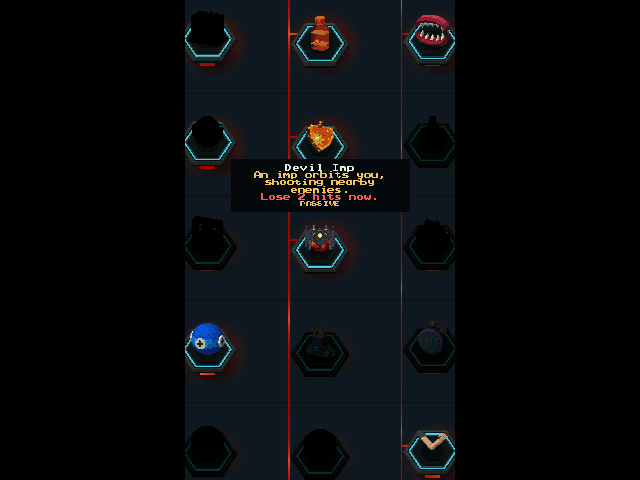
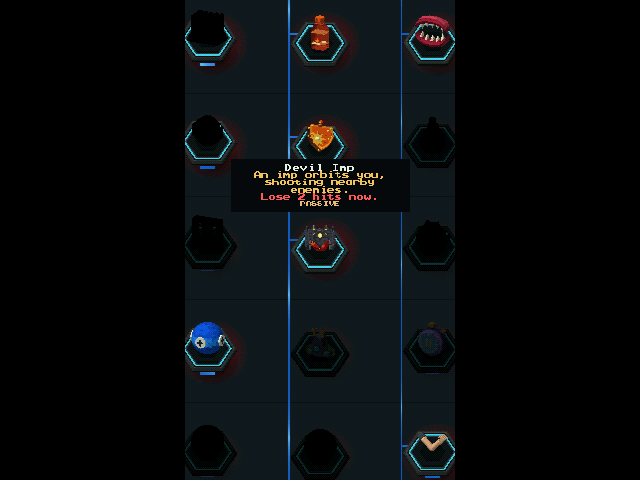
Light gallery routes and directory matches in blue

diff --git a/Assets/Scripts/Run/HangarGallery.cs b/Assets/Scripts/Run/HangarGallery.cs
@@ -73,7 +73,7 @@ public sealed partial class HangarHub
             // A fixed pool of red light and an offset contact shadow beneath the levitating base.
             GalleryWell(floor, colors, indices, at + new Vector2(.17f, -.35f), 1.39f, new Color(.48f, .065f, .045f), GalleryDeck);
             GalleryWell(floor, colors, indices, at + new Vector2(.23f, -.76f), .93f, new Color(.012f, .016f, .021f, .86f), Color.clear);
-            Bar(at + Vector2.down * 1.12f, new Vector2(.47f, .055f), new Color(1, .32f, .2f));
+            Bar(at + Vector2.down * 1.12f, new Vector2(.47f, .055f), GalleryLampMatrix.RouteBlue);
         }
         caseVertices[exhibits.Length] = colors.Count;
         floorLights = GallerySurface("Gallery floor and footlights", floor, colors, indices, -14);
@@ -81,7 +81,7 @@ public sealed partial class HangarHub
         litFloorColors = colors.ToArray();
         guidePaint = new Material(Resources.Load<Shader>("GalleryGuide"));
         guidePaint.SetVector("_Origin", new Vector4(FilterDesk.x, FilterDesk.y, 0, 0));
-        guideMesh = GallerySurface("Red inlaid guide lamps", new List<Vector3>(), new List<Color>(), new List<int>(), -10);
+        guideMesh = GallerySurface("Blue inlaid guide lamps", new List<Vector3>(), new List<Color>(), new List<int>(), -10);
         BuildControlDesk((int)Dock.Armory);
         MountReceiver((int)Dock.Armory);
         HangingSign("CASES >", FilterDesk + new Vector2(2.6f, -2.5f), DockInstrument.Brass, true);
@@ -249,7 +249,7 @@ public sealed partial class HangarHub
         var v = new List<Vector3>();
         var c = new List<Color>();
         var t = new List<int>();
-        var red = new Color(1, .14f, .085f);
+        var blue = GalleryLampMatrix.RouteBlue;
         int count = 0;
         for (int column = 0; column < GalleryShelf.Columns; column++)
         {
@@ -266,14 +266,14 @@ public sealed partial class HangarHub
                 if (band == 0 && galleryAvailability == 0)
                     continue;
                 highest = at.y;
-                GalleryQuad(v, c, t, at + Vector2.left * .94f, new Vector2(.45f, .055f), red);
-                GalleryQuad(v, c, t, at + Vector2.down * 1.12f, new Vector2(.55f, .10f), red);
+                GalleryQuad(v, c, t, at + Vector2.left * .94f, new Vector2(.45f, .055f), blue);
+                GalleryQuad(v, c, t, at + Vector2.down * 1.12f, new Vector2(.55f, .10f), blue);
             }
             if (highest <= FilterDesk.y)
                 continue;
             float x = Case(column).x - 1.14f;
-            GalleryQuad(v, c, t, new Vector2(x, (highest + FilterDesk.y) / 2), new Vector2(.055f, highest - FilterDesk.y), red);
-            GalleryQuad(v, c, t, new Vector2((x + FilterDesk.x) / 2, FilterDesk.y), new Vector2(Mathf.Abs(x - FilterDesk.x), .055f), red);
+            GalleryQuad(v, c, t, new Vector2(x, (highest + FilterDesk.y) / 2), new Vector2(.055f, highest - FilterDesk.y), blue);
+            GalleryQuad(v, c, t, new Vector2((x + FilterDesk.x) / 2, FilterDesk.y), new Vector2(Mathf.Abs(x - FilterDesk.x), .055f), blue);
         }
         caseLeds.SetVerticesDirty();
         floorLights.SetColors(floorColors);

diff --git a/Assets/Scripts/Run/DockReadouts.cs b/Assets/Scripts/Run/DockReadouts.cs
@@ -107,6 +107,7 @@ public sealed class DockTubeGlass : MaskableGraphic
 // A single phosphor matrix mirrors the arrangement of the cases on the floor.
 public sealed class GalleryLampMatrix : MaskableGraphic
 {
+    public static readonly Color RouteBlue = new Color(.12f, .49f, 1f);
     public bool[] matches;
 
     protected override void OnPopulateMesh(VertexHelper vh)
@@ -115,7 +116,7 @@ public sealed class GalleryLampMatrix : MaskableGraphic
         if (matches == null) return;
         for (int i = 0; i < matches.Length; i++)
         {
-            var color = matches[i] ? new Color(.95f, .24f, .14f) : new Color(.17f, .20f, .20f);
+            var color = matches[i] ? RouteBlue : new Color(.17f, .20f, .20f);
             var at = new Vector2(6 + i % GalleryShelf.Columns * 19, 5 + i / GalleryShelf.Columns * 18) - rectTransform.rect.size * .5f;
             int first = vh.currentVertCount;
             vh.AddVert(at + new Vector2(-6, -5), color, Vector2.zero);
